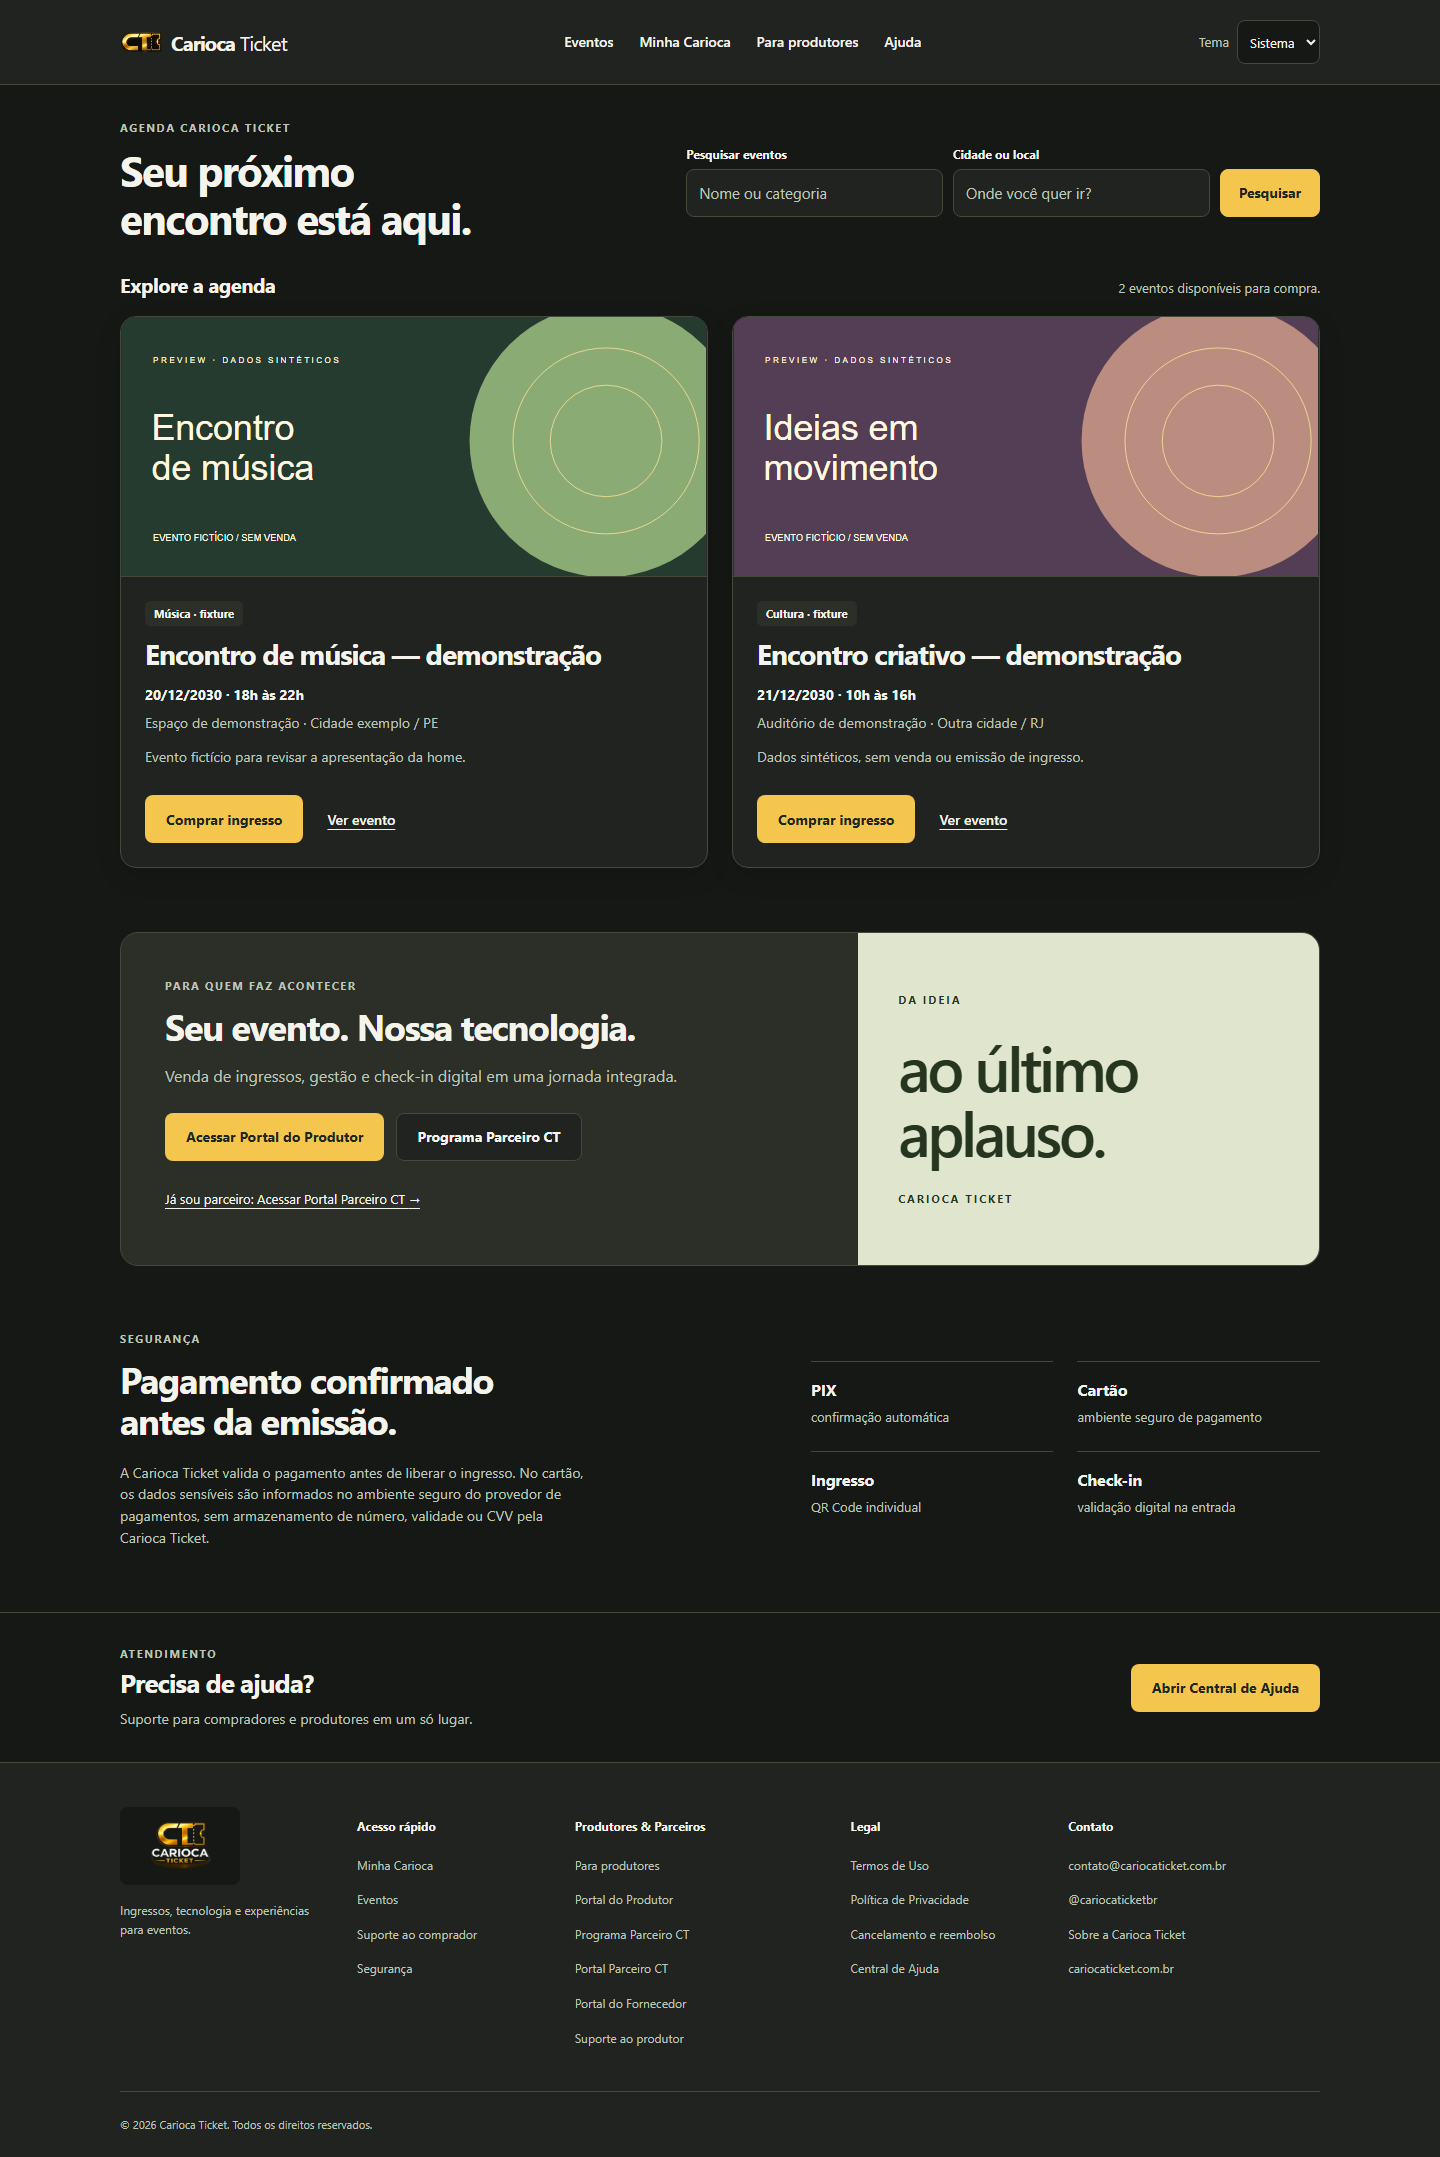
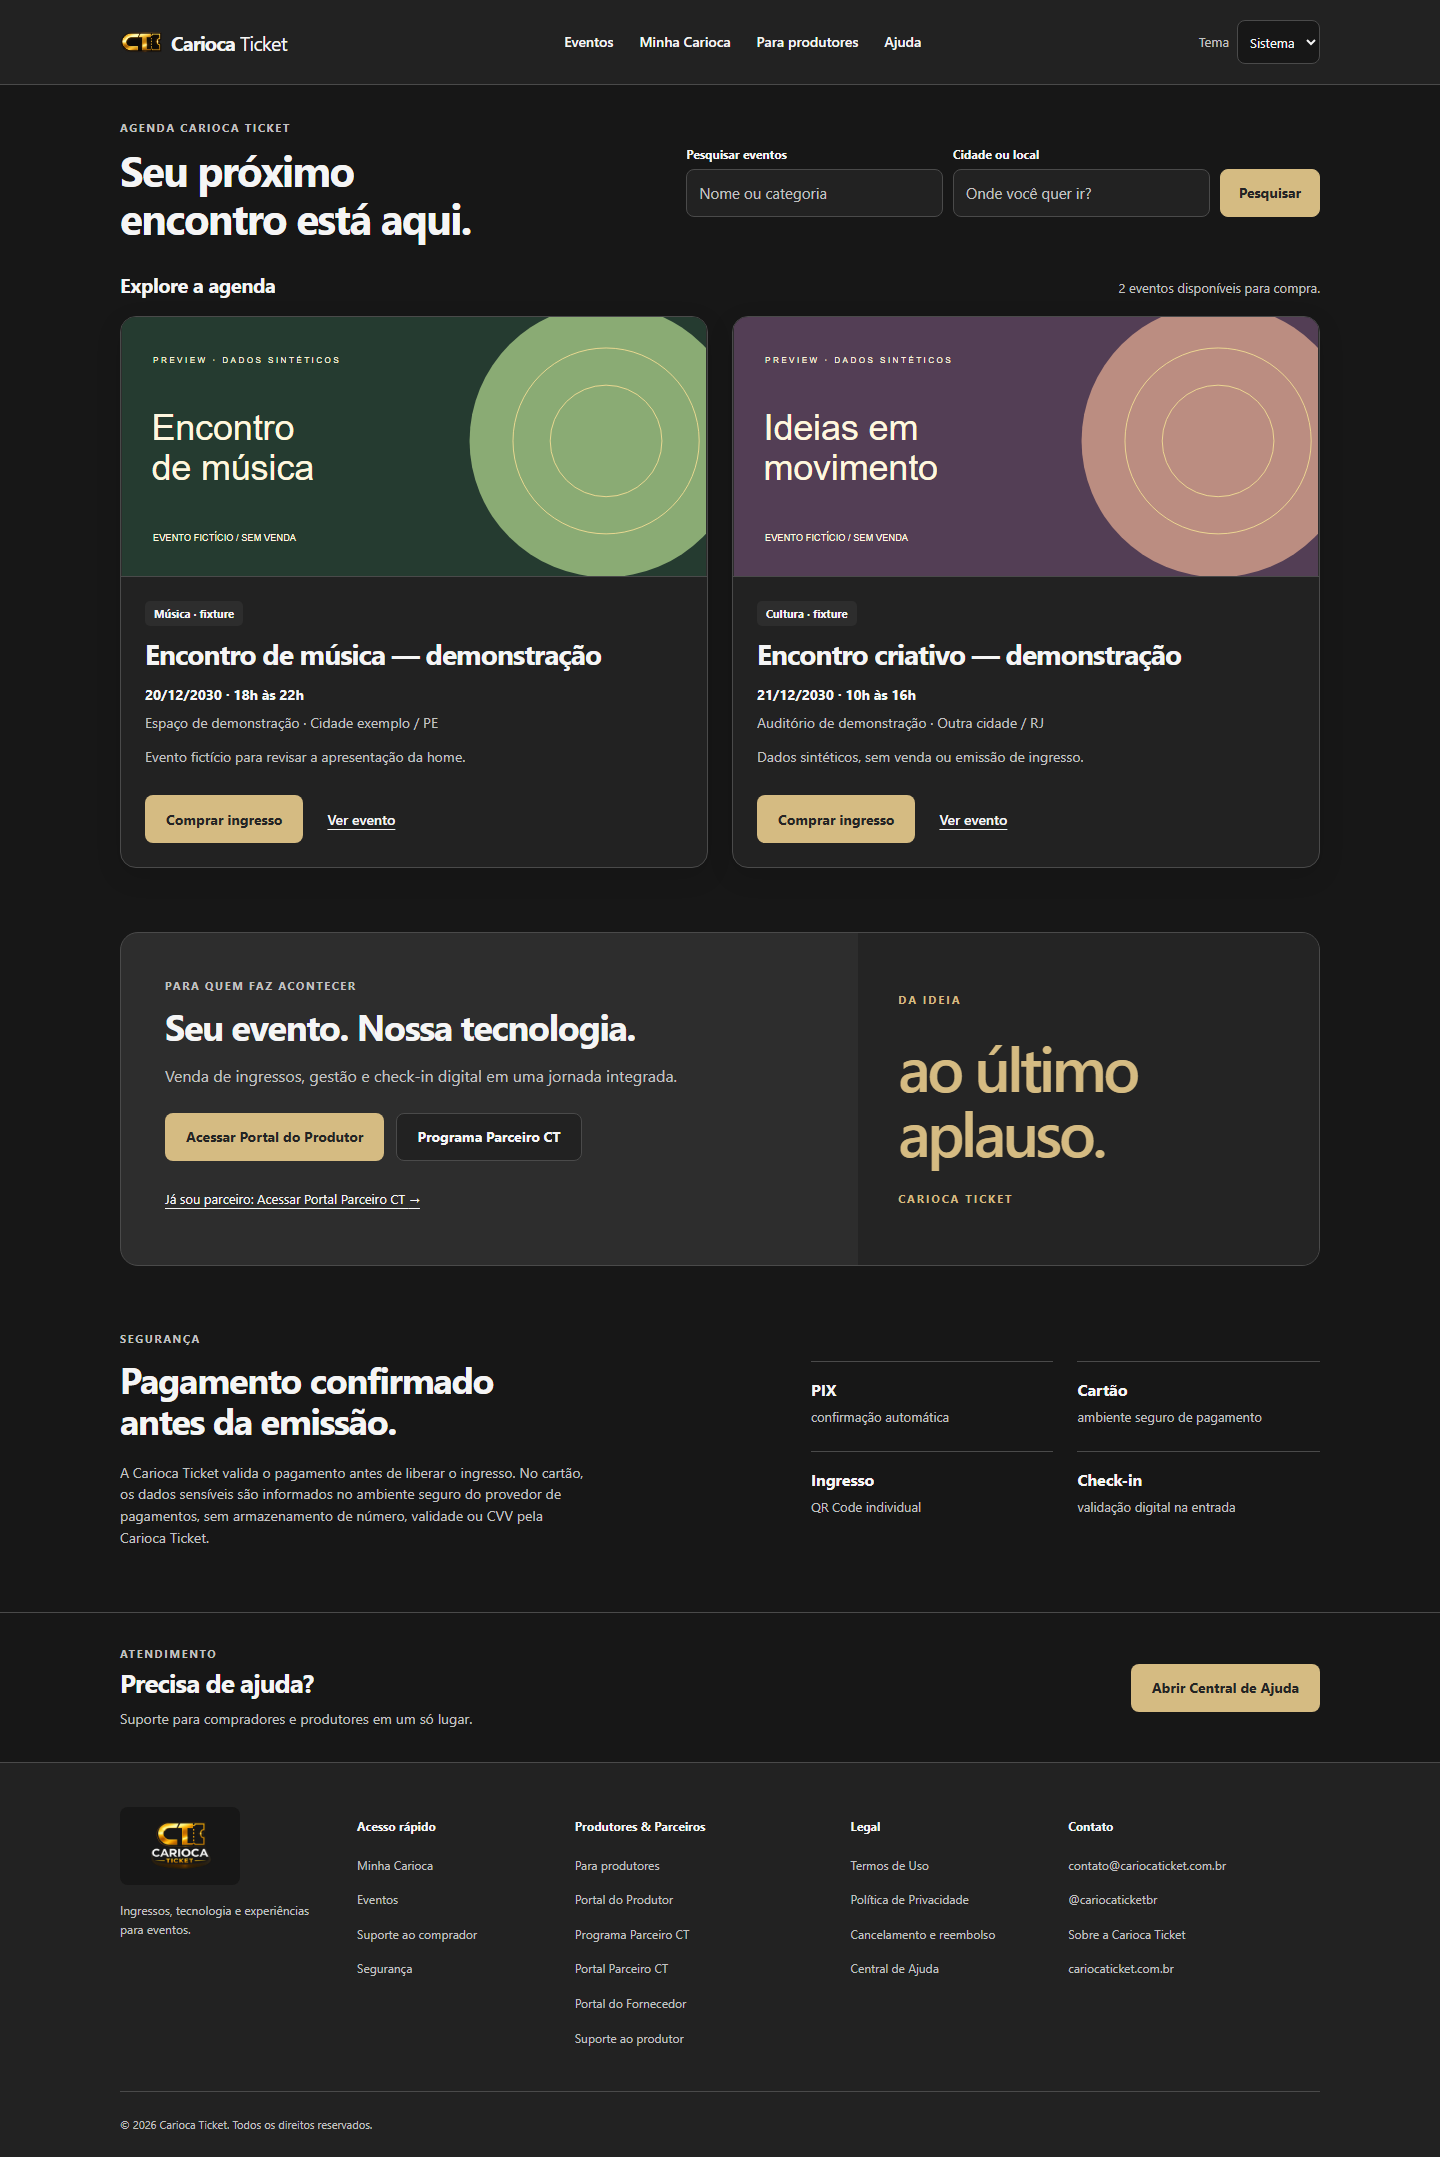
style: align home palette with neutral charcoal and soft gold

diff --git a/assets/home.css b/assets/home.css
@@ -1,39 +1,39 @@
 /* Home only. Other routes continue using styles.css without these tokens or rules. */
 .ct-home-root {
   color-scheme: light;
-  --home-bg: #f7f7f2;
+  --home-bg: #f7f7f7;
   --home-surface: #fff;
-  --home-soft: #eeeee6;
-  --home-text: #202620;
-  --home-muted: #5b625b;
-  --home-line: #d5d9ce;
-  --home-accent: #f4c64e;
-  --home-ink: #20251d;
-  --home-focus: #45682a;
-  --home-shadow: 0 8px 26px rgb(28 38 22 / 5%);
+  --home-soft: #eeeeee;
+  --home-text: #242424;
+  --home-muted: #606060;
+  --home-line: #d6d6d6;
+  --home-accent: #d5bb82;
+  --home-ink: #242424;
+  --home-focus: #80632a;
+  --home-shadow: 0 8px 26px rgb(24 24 24 / 5%);
   background: var(--home-bg);
 }
 .ct-home-root[data-home-theme="dark"] {
   color-scheme: dark;
-  --home-bg: #161816;
-  --home-surface: #20231f;
-  --home-soft: #2b2f27;
-  --home-text: #f4f4ec;
-  --home-muted: #bfc5b8;
-  --home-line: #434a3c;
-  --home-focus: #f4c64e;
+  --home-bg: #171717;
+  --home-surface: #222222;
+  --home-soft: #2d2d2d;
+  --home-text: #f5f5f5;
+  --home-muted: #c2c2c2;
+  --home-line: #4a4a4a;
+  --home-focus: #d5bb82;
   --home-shadow: 0 8px 26px rgb(0 0 0 / 12%);
 }
 @media (prefers-color-scheme: dark) {
   .ct-home-root:not([data-home-theme]) {
     color-scheme: dark;
-    --home-bg: #161816;
-    --home-surface: #20231f;
-    --home-soft: #2b2f27;
-    --home-text: #f4f4ec;
-    --home-muted: #bfc5b8;
-    --home-line: #434a3c;
-    --home-focus: #f4c64e;
+    --home-bg: #171717;
+    --home-surface: #222222;
+    --home-soft: #2d2d2d;
+    --home-text: #f5f5f5;
+    --home-muted: #c2c2c2;
+    --home-line: #4a4a4a;
+    --home-focus: #d5bb82;
   }
 }
 .ct-home { margin: 0; color: var(--home-text); background: var(--home-bg); font: 16px/1.55 system-ui, -apple-system, "Segoe UI", sans-serif; }
@@ -108,7 +108,7 @@
 .ct-home .producer-copy h2 { margin: 12px 0 16px; max-width: 14em; }
 .ct-home .hero-actions { display: flex; flex-wrap: wrap; gap: 12px; margin: 24px 0 16px; }
 .ct-home .text-link { display: inline-block; padding-block: 12px; font-size: 13px; }
-.ct-home .producer-note { background: #dfe6cd; color: #25351f; display: flex; flex-direction: column; justify-content: center; align-items: flex-start; padding: 40px; gap: 26px; }
+.ct-home .producer-note { background: var(--home-ink); color: var(--home-accent); display: flex; flex-direction: column; justify-content: center; align-items: flex-start; padding: 40px; gap: 26px; }
 .ct-home .producer-note span { font-size: 11px; letter-spacing: .18em; font-weight: 700; }
 .ct-home .producer-note strong { font-size: clamp(36px, 5vw, 62px); font-weight: 500; line-height: 1.05; letter-spacing: -.055em; }
 .ct-home .section { padding-block: 64px; }
@@ -129,7 +129,7 @@
 .ct-home .footer-grid a, .ct-home .footer-grid span { display: inline-block; font-size: 12px; padding-block: 8px; color: var(--home-muted); overflow-wrap: anywhere; max-width: 100%; text-decoration: none; }
 .ct-home .footer-grid a:hover { text-decoration: underline; }
 .ct-home .footer-grid strong { font-size: 12px; margin-block: 10px 12px; }
-.ct-home .footer-brand img { width: 120px; height: 78px; object-fit: contain; background: #161816; border-radius: 8px; }
+.ct-home .footer-brand img { width: 120px; height: 78px; object-fit: contain; background: #171717; border-radius: 8px; }
 .ct-home .footer-brand p { margin-top: 16px; font-size: 12px; }
 .ct-home .footer-bottom { border-top: 1px solid var(--home-line); margin-top: 36px; padding-block: 24px; font-size: 11px; color: var(--home-muted); }
 @media (max-width: 1100px) {

diff --git a/tests/home/home-stage1.spec.js b/tests/home/home-stage1.spec.js
@@ -47,7 +47,15 @@ async function noOverflow(page) {
 async function screenshot(page, name, fullPage = false) {
   fs.mkdirSync(EVIDENCE, { recursive: true });
   await expect.poll(() => page.locator('img').evaluateAll(images => images.every(img => img.complete))).toBe(true);
-  await page.screenshot({ path: path.join(EVIDENCE, name + '.png'), fullPage });
+  const viewport = page.viewportSize();
+  // Paint the entire document before capture: some headless builds omit offscreen
+  // decorative text/images from full-page screenshots despite complete assets.
+  if (fullPage) await page.setViewportSize({ ...viewport, height: await page.evaluate(() => document.documentElement.scrollHeight) });
+  try {
+    await page.screenshot({ path: path.join(EVIDENCE, name + '.png'), fullPage });
+  } finally {
+    if (fullPage) await page.setViewportSize(viewport);
+  }
 }
 
 test('initial system theme, live system changes, explicit override and persistence', async ({ page }) => {

diff --git a/assets/home-theme.js b/assets/home-theme.js
@@ -14,7 +14,7 @@
     var theme = preference === 'system' ? (system.matches ? 'dark' : 'light') : preference;
     root.dataset.homeTheme = theme;
     var meta = document.querySelector('meta[name="theme-color"]');
-    if (meta) meta.content = theme === 'dark' ? '#161816' : '#f7f7f2';
+    if (meta) meta.content = theme === 'dark' ? '#171717' : '#f7f7f7';
   }
   apply();
   if (system.addEventListener) system.addEventListener('change', apply);

diff --git a/docs/reviews/home-stage1/README.md b/docs/reviews/home-stage1/README.md
@@ -5,6 +5,23 @@ Base: `edcfe04d08438b0ba3a5fd38ef823aa9502aa2e0` (main conferida antes e depois 
 
 O catálogo passa a ter uma apresentação clara/escura, busca e cidade/local visíveis e navegação principal reduzida. O tema começa com a preferência do sistema; a escolha explícita fica restrita à home e continua funcionando quando o armazenamento está indisponível. Cards mantêm a capa inteira, nome, data/horário, local/cidade e os destinos existentes. Campos ausentes são identificados como não informados, sem preencher fatos ou preços fictícios.
 
+## Ajuste de identidade: carvão, dourado suave e branco
+
+A revisão removeu a dominante verde dos tokens da home, inclusive sombras, bordas, foco e o bloco de produtor. O bloco agora usa grafite `#242424` com dourado `#D5BB82`. A barra de cor do navegador acompanha os fundos neutros; a faixa do preview usa o mesmo dourado. Composição, dimensões, navegação, contratos e capas não mudaram. Cores nas ilustrações sintéticas dos eventos pertencem às capas, não aos tokens da interface.
+
+| Papel | Claro | Escuro |
+| --- | --- | --- |
+| Fundo | `#F7F7F7` | `#171717` |
+| Superfície | `#FFFFFF` | `#222222` |
+| Superfície secundária | `#EEEEEE` | `#2D2D2D` |
+| Texto | `#242424` | `#F5F5F5` |
+| Texto secundário | `#606060` | `#C2C2C2` |
+| Bordas | `#D6D6D6` | `#4A4A4A` |
+| Dourado / texto do botão | `#D5BB82` / `#242424` | `#D5BB82` / `#242424` |
+| Foco | `#80632A` | `#D5BB82` |
+
+Contrastes: texto/fundo **14,49:1 claro** e **16,44:1 escuro**; texto secundário mínimo **5,42:1** e **7,73:1**; dourado/grafite **8,32:1**; foco mínimo **4,84:1** e **7,38:1**. A suíte mede os tokens computados no navegador. As capturas abaixo foram atualizadas para esta paleta.
+
 ## Limite da referência
 
 A referência `libfile_3e18eab004bc8191a1da0e60abaec0d1`, `carioca-ticket-proposta-visual.pdf`, foi resolvida pela Library na versão **11**, tamanho declarado **101797 bytes**. A materialização pelo helper oficial retornou **HTTP 403**. Não houve PDF local legível, extração nem inspeção visual de páginas. Esta implementação resulta da inspeção independente da home e do escopo solicitado; **não está atestada como fiel à proposta v11**. A conferência com o PDF permanece pendente para a revisão.
